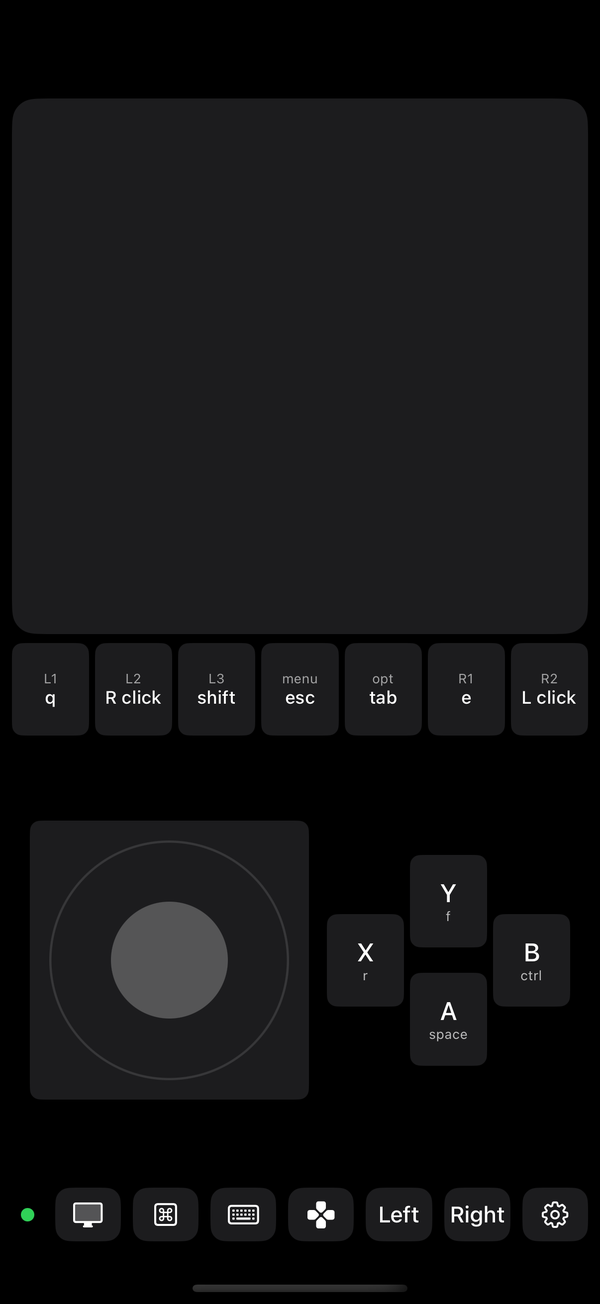
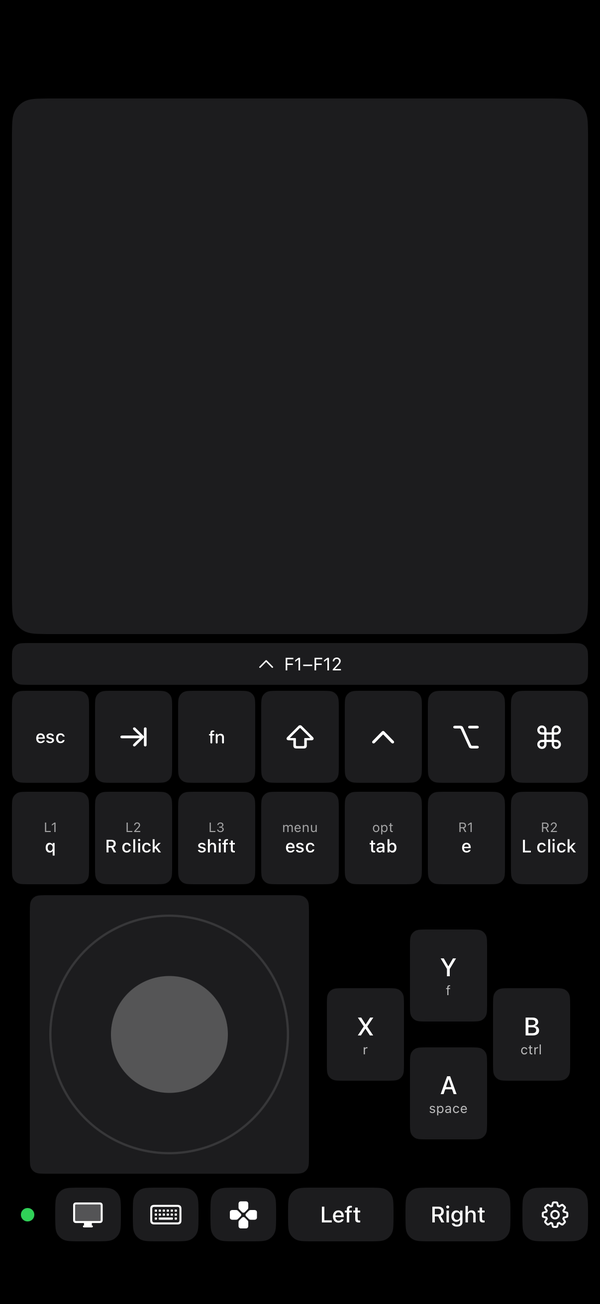
Clean build: drop pointless weak captures, discard becomeFirstResponder results
Also: the setup guide describes the key row and the on-screen controller instead of
the old strip, and the site's portrait controller shot shows the pad with its key row.

Changed region(s): [[0.0, 0.4908, 0.99, 0.9509], [0.33, 0.9816, 0.69, 1.0], [0.45, 0.7362, 0.48, 0.7975]]

diff --git a/iOS/Couchpad/ContentView.swift b/iOS/Couchpad/ContentView.swift
@@ -96,12 +96,14 @@ struct ContentView: View {
             controller.client = client
             controller.settings = settings
             screen.client = client
-            client.onScreenPacket = { [weak screen] packet in screen?.handle(packet) }
-            client.onScreenStatus = { [weak screen] status in screen?.hostMessage = status }
-            client.onScreenHealth = { [weak screen] health in
-                if screen?.health != health { screen?.health = health }
+            // The receiver lives as long as the view; the client's callbacks hold it plainly
+            // (a weak capture here was pointless, the enclosing closure already holds it).
+            client.onScreenPacket = { packet in screen.handle(packet) }
+            client.onScreenStatus = { status in screen.hostMessage = status }
+            client.onScreenHealth = { health in
+                if screen.health != health { screen.health = health }
             }
-            client.onScreenLoss = { [weak screen] in screen?.markLost() }
+            client.onScreenLoss = { screen.markLost() }
             client.startBrowsing()
             UIApplication.shared.isIdleTimerDisabled = true
             if !hasSeenSetup {

diff --git a/iOS/Couchpad/SetupView.swift b/iOS/Couchpad/SetupView.swift
@@ -42,8 +42,8 @@ struct SetupView: View {
                     row("hand.draw", "Two fingers", "Scroll")
                     row("hand.point.up.left.and.text", "Tap, then touch and hold", "Drag")
                     row("square.grid.3x3", "Three-finger swipe", "Up: Mission Control · Down: App Exposé · Left/right: switch Spaces")
-                    row("keyboard", "Keyboard", "Types on the Mac. esc, tab, arrows and ⌘⌥⌃⇧ are in the strip above it")
-                    row("gamecontroller", "Hold keys", "Expand the strip for WASD, space and F-keys that stay down while touched")
+                    row("keyboard", "Keyboard", "Types on the Mac. esc, tab, fn, ⌘⌥⌃⇧ and F1–F12 are in the key row above it")
+                    row("gamecontroller", "On-screen controller", "The d-pad button in the bar: a stick, A B X Y and seven keys you bind, under the picture")
                     row("gamecontroller.fill", "Backbone or Bluetooth controller", "Plug it into the phone: sticks and buttons become WASD, mouse look and keys on the computer")
                 }
 

diff --git a/iOS/Couchpad/KeyInputView.swift b/iOS/Couchpad/KeyInputView.swift
@@ -27,7 +27,7 @@ struct KeyInputView: UIViewRepresentable {
         let wanted = state.keyboardShown && !state.suspended
         DispatchQueue.main.async {
             if wanted {
-                if !uiView.isFirstResponder { uiView.becomeFirstResponder() }
+                if !uiView.isFirstResponder { _ = uiView.becomeFirstResponder() }
             } else if uiView.isFirstResponder {
                 uiView.resignFirstResponder()
             }
@@ -86,7 +86,7 @@ final class KeyInputUIView: UITextField, UITextFieldDelegate {
             // change that also hides it), and a field taking it now would leave it up
             // with nothing on screen expecting it.
             guard self.window != nil, self.inputState?.keyboardShown == true, self.inputState?.suspended != true else { return }
-            self.becomeFirstResponder()
+            _ = self.becomeFirstResponder()
         }
     }
 
